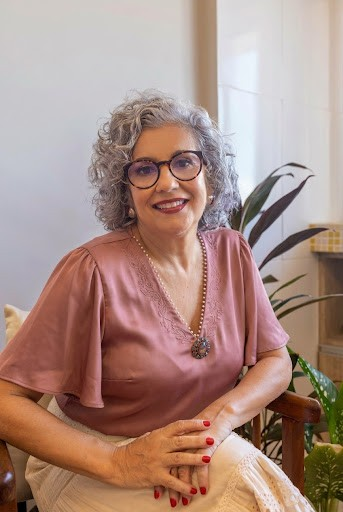
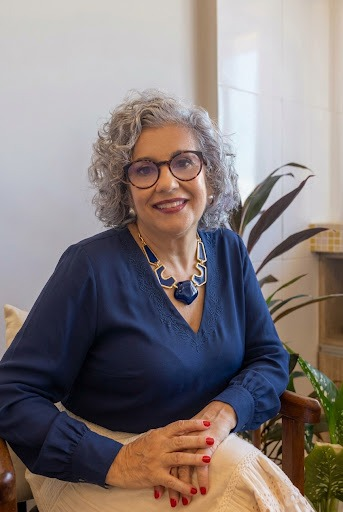
Troca a foto da abertura (blusa azul-marinho)
Claude-Session: https://claude.ai/code/session_013LiB4tU2sZVeKQjgeynHhA

diff --git a/index.html b/index.html
@@ -370,7 +370,7 @@ p{ margin:0 0 1em; max-width:62ch; }
           <picture>
             <source type="image/webp" srcset="img/marlizete-abertura-343.webp">
             <img src="img/marlizete-abertura-343.jpg" width="343" height="512" fetchpriority="high"
-                 alt="Dra. Marlizete sorri sentada numa poltrona de madeira do consultório, de mãos entrelaçadas. Tem cabelo grisalho cacheado, óculos redondos, blusa rosé acetinada e colar de pérolas com medalhão; atrás dela, plantas e a luz da janela.">
+                 alt="Dra. Marlizete sorri sentada numa poltrona de madeira do consultório, de mãos entrelaçadas. Tem cabelo grisalho cacheado, óculos redondos, blusa azul-marinho e colar azul de peças geométricas; atrás dela, plantas e a luz da janela.">
           </picture>
         </figure>
       </div>
